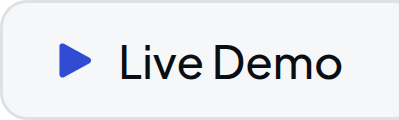
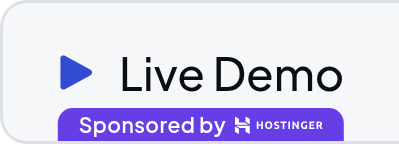
docs: Update assets

diff --git a/README.md b/README.md
@@ -16,7 +16,7 @@
 </p>
 
 <p align="center">
-  <a href="https://demo.nexterm.dev"><picture><source media="(prefers-color-scheme: dark)" srcset="docs/public/assets/readme/demo-dark.png"><img alt="Live Demo" src="docs/public/assets/readme/demo-light.png" height="40"></picture></a><a href="https://docs.nexterm.dev"><picture><source media="(prefers-color-scheme: dark)" srcset="docs/public/assets/readme/docs-dark.png"><img alt="Documentation" src="docs/public/assets/readme/docs-light.png" height="40"></picture></a><a href="https://nexterm.dev/install"><picture><source media="(prefers-color-scheme: dark)" srcset="docs/public/assets/readme/install-dark.png"><img alt="Install" src="docs/public/assets/readme/install-light.png" height="40"></picture></a>
+  <a href="https://demo.nexterm.dev"><picture><source media="(prefers-color-scheme: dark)" srcset="docs/public/assets/readme/demo-dark.png"><img alt="Live Demo, sponsored by Hostinger" src="docs/public/assets/readme/demo-light.png" height="48"></picture></a><a href="https://docs.nexterm.dev"><picture><source media="(prefers-color-scheme: dark)" srcset="docs/public/assets/readme/docs-dark.png"><img alt="Documentation" src="docs/public/assets/readme/docs-light.png" height="48"></picture></a><a href="https://nexterm.dev/install"><picture><source media="(prefers-color-scheme: dark)" srcset="docs/public/assets/readme/install-dark.png"><img alt="Install" src="docs/public/assets/readme/install-light.png" height="48"></picture></a>
 </p>
 
 ## 🤔 What is Nexterm?
